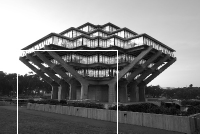
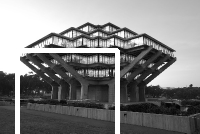
I made updates.

Changed region(s): [[0.09, 0.3582, 0.6, 1.0], [0.06, 0.5373, 0.12, 1.0], [0.09, 0.4179, 0.12, 0.4478]]

diff --git a/project_1/process_local.py b/project_1/process_local.py
@@ -24,7 +24,7 @@ def process_image():
 	cv2.imwrite('Geisel__3.jpg', image_3)
 	#image_3=cv2.imread('Geisel__3.jpg')	
 #	image_4=cv2.rectangle(image_3, image_3.shape(:2)/2-(50,50), image_3.shape(:2)+(50,50), (256,256,256))#Step 4
-	image_4=cv2.rectangle(image_3, (image_3.shape[0]/2-50,image_3.shape[1]/2+50), (image_3.shape[0]/2+50,image_3.shape[1]/2-50), (256,256,256))#Step 4
+	image_4=cv2.rectangle(image_3, (image_3.shape[0]/2-50,image_3.shape[1]/2+50), (image_3.shape[0]/2+50,image_3.shape[1]/2-50), (256,256,256),3)#Step 4
  
 	#image_3=cv2.imread('Geisel__3.jpg')	
 	cv2.imwrite('geisel-bw-rectangle.png',image_4)#Step 5
